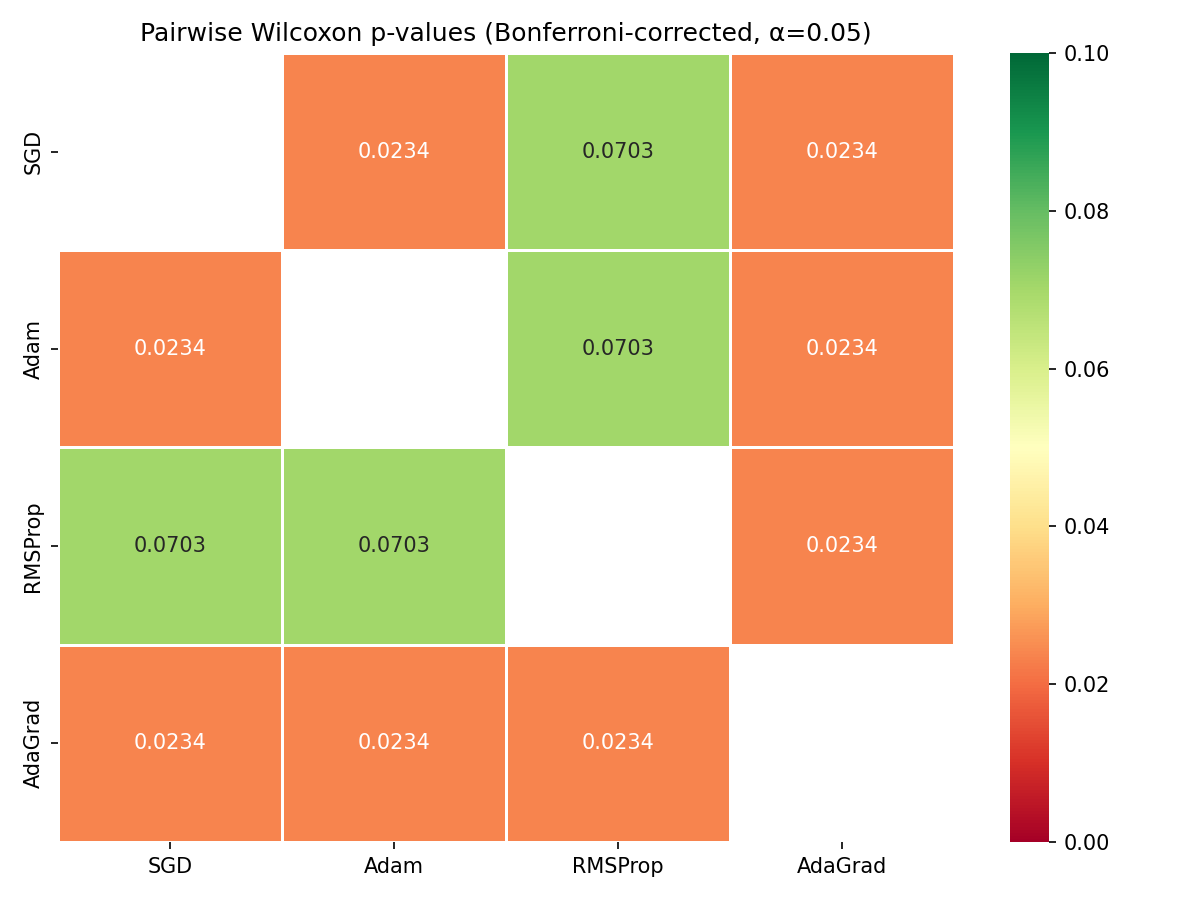
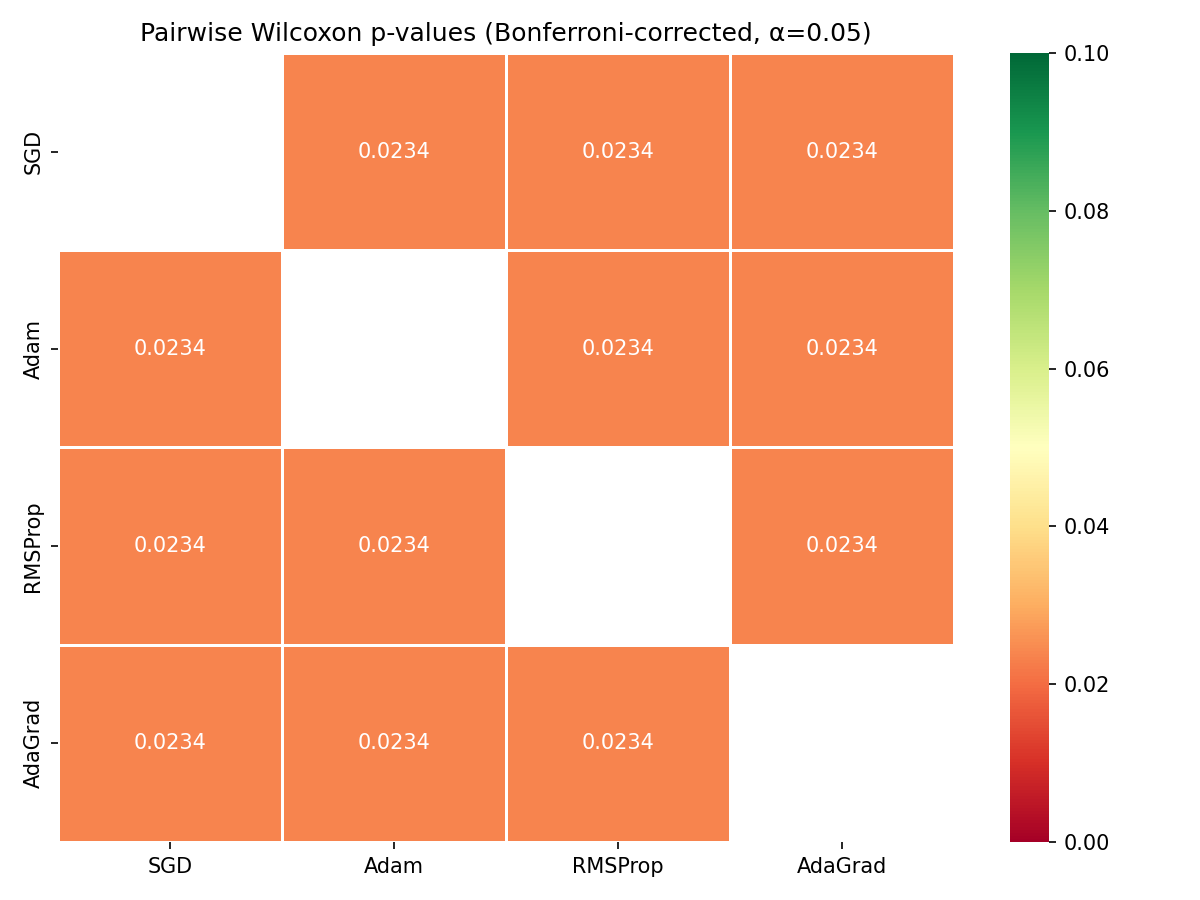
skiftede bonferroni til holm-bonferroni

Changed region(s): [[0.0308, 0.0622, 0.6167, 0.7156]]

diff --git a/analysis.py b/analysis.py
@@ -196,25 +196,47 @@ def run_friedman_test(acc_matrix):
 
 def run_posthoc_wilcoxon(acc_matrix, alpha=SIGNIFICANCE_LEVEL):
     """
-    Pairwise Wilcoxon signed-rank tests with Bonferroni correction.
+    Pairwise Wilcoxon signed-rank tests with Holm-Bonferroni step-down correction.
     Returns a DataFrame with columns: opt_A, opt_B, statistic, p_raw, p_corrected, significant.
     """
     optimizers = list(acc_matrix.columns)
-    n_comparisons = len(list(combinations(optimizers, 2)))
-    results = []
+    pairs = list(combinations(optimizers, 2))
+    m = len(pairs)
+    raw_results = []
 
-    for opt_a, opt_b in combinations(optimizers, 2):
+    for opt_a, opt_b in pairs:
         a = acc_matrix[opt_a].values
         b = acc_matrix[opt_b].values
 
-        # Wilcoxon requires at least some non-zero differences
         diff = a - b
         if np.all(diff == 0):
             stat, p_raw = np.nan, 1.0
         else:
             stat, p_raw = wilcoxon(a, b, alternative="two-sided")
 
-        p_corrected = min(p_raw * n_comparisons, 1.0)  # Bonferroni
+        raw_results.append((opt_a, opt_b, stat, p_raw))
+
+    # Sort by raw p-value for Holm step-down
+    raw_results.sort(key=lambda x: x[3])
+
+    results = []
+    holm_rejected = True  # Stays True until first non-rejection
+    prev_p_corrected = 0.0
+
+    for i, (opt_a, opt_b, stat, p_raw) in enumerate(raw_results):
+        # Holm multiplier: (m - i) where i is 0-indexed
+        p_corrected = p_raw * (m - i)
+        # Ensure monotonicity: corrected p can't decrease
+        p_corrected = max(p_corrected, prev_p_corrected)
+        p_corrected = min(p_corrected, 1.0)
+        prev_p_corrected = p_corrected
+
+        # Holm step-down: once we fail to reject, all subsequent are not rejected
+        if holm_rejected and p_corrected < alpha:
+            significant = True
+        else:
+            holm_rejected = False
+            significant = False
 
         results.append({
             "opt_A": opt_a,
@@ -222,7 +244,7 @@ def run_posthoc_wilcoxon(acc_matrix, alpha=SIGNIFICANCE_LEVEL):
             "statistic": stat,
             "p_raw": p_raw,
             "p_corrected": p_corrected,
-            "significant": p_corrected < alpha,
+            "significant": significant,
         })
 
     return pd.DataFrame(results)
@@ -505,7 +527,7 @@ if __name__ == "__main__":
 
     # ── Post-hoc Wilcoxon tests ───────────────────────────────
     print_section("POST-HOC: PAIRWISE WILCOXON SIGNED-RANK TESTS")
-    print(f"  Correction: Bonferroni (α = {SIGNIFICANCE_LEVEL})")
+    print(f"  Correction: Holm-Bonferroni step-down (α = {SIGNIFICANCE_LEVEL})")
     posthoc_df = run_posthoc_wilcoxon(acc_matrix)
 
     # Clean display with formatted p-values
